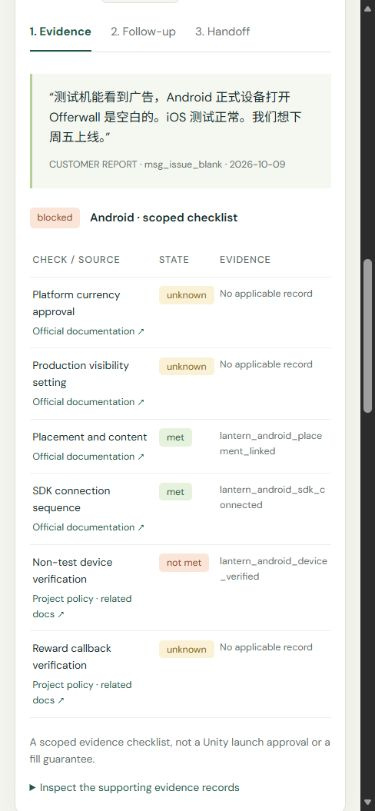
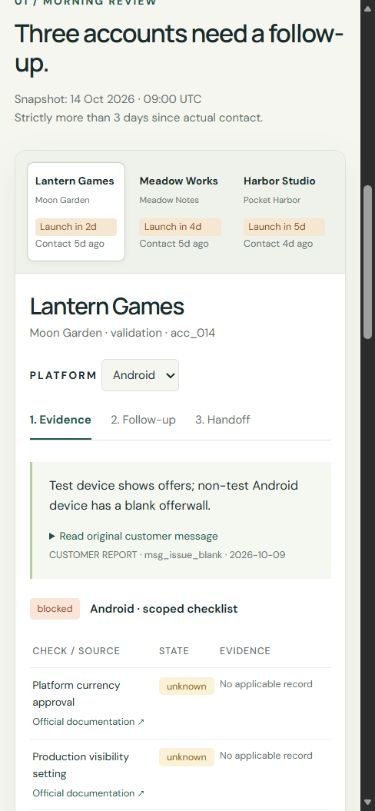
Polish the English case presentation and record verification
Align synthetic evidence with handoff fields, refresh browser screenshots, add verification notes and version static assets.

Changed region(s): [[0.0293, 0.0, 0.9093, 0.9864], [0.968, 0.4007, 0.9973, 0.524], [0.968, 0.2158, 0.9973, 0.3391]]

diff --git a/demo/data.js b/demo/data.js
@@ -241,7 +241,7 @@ window.CSM_DATA = {
               "id": "msg_issue_blank",
               "at": "2026-10-09T09:00:00Z",
               "kind": "customer_report",
-              "text": "测试机能看到广告，Android 正式设备打开 Offerwall 是空白的。iOS 测试正常。我们想下周五上线。"
+              "text": "我们在新加坡测试：测试机能看到广告，Android 正式设备打开奖励页面的 Offerwall 是空白的。iOS 测试正常。我们想下周五上线。"
             }
           ],
           "synthetic": true,
@@ -602,7 +602,7 @@ window.CSM_DATA = {
               "region": "Singapore",
               "reproduction_steps": "Open the reward screen on a non-test Android device."
             },
-            "customer_report": "测试机能看到广告，Android 正式设备打开 Offerwall 是空白的。iOS 测试正常。我们想下周五上线。",
+            "customer_report": "我们在新加坡测试：测试机能看到广告，Android 正式设备打开奖励页面的 Offerwall 是空白的。iOS 测试正常。我们想下周五上线。",
             "evidence_ids": [
               "msg_issue_blank"
             ],
@@ -1041,7 +1041,7 @@ window.CSM_DATA = {
               "id": "msg_issue_callback",
               "at": "2026-10-10T09:00:00Z",
               "kind": "customer_report",
-              "text": "Our self-managed reward endpoint returns HTTP 405. The reward has not reached the test user."
+              "text": "Our self-managed reward endpoint returns HTTP 405. The reward has not reached the test user. Test region: Japan. SDK: synthetic-version-1. Observed between 08:30 and 09:00 UTC on 2026-10-10."
             }
           ],
           "synthetic": true,
@@ -1228,7 +1228,7 @@ window.CSM_DATA = {
               "sdk_version": "synthetic-version-1",
               "region": "Japan"
             },
-            "customer_report": "Our self-managed reward endpoint returns HTTP 405. The reward has not reached the test user.",
+            "customer_report": "Our self-managed reward endpoint returns HTTP 405. The reward has not reached the test user. Test region: Japan. SDK: synthetic-version-1. Observed between 08:30 and 09:00 UTC on 2026-10-10.",
             "evidence_ids": [
               "msg_issue_callback"
             ],

diff --git a/demo/index.html b/demo/index.html
@@ -8,9 +8,9 @@
       content="Explore an evidence-grounded customer onboarding workflow by Yuchi Wang. Synthetic cases, traceable decisions, honest evaluations."
     />
     <title>CSM Copilot · Evidence before confidence</title>
-    <link rel="stylesheet" href="style.css" />
-    <script defer src="data.js"></script>
-    <script defer src="app.js"></script>
+    <link rel="stylesheet" href="style.css?v=0.1.1" />
+    <script defer src="data.js?v=0.1.1"></script>
+    <script defer src="app.js?v=0.1.1"></script>
   </head>
   <body>
     <a class="skip" href="#workspace">Skip to case explorer</a>

diff --git a/docs/VERIFICATION.md b/docs/VERIFICATION.md
@@ -1,0 +1,41 @@
+# Verification record
+
+Verified during the initial build on 2026-10-14. For the latest commit, use the live [CI results](https://github.com/Yuchi-Wang02/csm-copilot/actions/workflows/ci.yml) and [Pages deployment](https://github.com/Yuchi-Wang02/csm-copilot/actions/workflows/pages.yml).
+
+| Check | Observed result | Scope |
+|---|---|---|
+| Python behavior tests | 26 passed locally | Deterministic workflow and input boundaries |
+| Ruff lint and format | Passed | Python source checks |
+| Package build | Source distribution and wheel built | Includes packaged JSON fixtures |
+| Real MCP stdio client | Seven tools, prompt retrieval and invalid-ID error passed | Scripted client, no model inference |
+| Synthetic diagnostics | 12/12 dev; 14/18 family-separated cases | Same-session authored, not independently validated |
+| Initial GitHub Actions verification | Windows / Python 3.13 and Ubuntu / Python 3.11 passed | Clean runner installation and regenerated-artifact consistency |
+| GitHub Pages deployment | Published successfully | Public static replay |
+
+## Browser interactions inspected
+
+- Android evidence remains blocked; switching to iOS displays its own complete scoped checklist.
+- English and Chinese follow-ups render from the generated engine outputs.
+- Harbor's handoff retains HTTP 405 as a hypothesis and exposes missing reproduction steps and logs.
+- The customer-update toggle confirms two settings while retaining the failed device check.
+- Arrow-key navigation moves between review tabs.
+- The copy button reports completion; operating-system clipboard contents were not independently validated.
+- At a mobile viewport, document width and scroll width both measured 375 CSS pixels: no horizontal page overflow.
+- Browser error logs were empty in the inspected local session.
+
+Screenshots: [desktop introduction](assets/demo-desktop.png), [case review](assets/demo-case.png), [Chinese follow-up](assets/demo-followup.png), [mobile evidence view](assets/demo-mobile.png).
+
+## Reproduction
+
+```sh
+python -m pip install -e ".[dev]"
+python -m pytest -q
+python -m ruff check .
+python -m ruff format --check .
+python scripts/mcp_smoke.py --output evidence/mcp-transcript.json
+python scripts/build_demo.py
+git diff --exit-code -- demo/data.js evidence
+python -m build
+```
+
+Generated outputs are deterministic. The diagnostic case hash uses UTF-8 text with normalized line endings, so Windows and Linux yield the same identifier. Browser screenshots are observational artifacts and are not regenerated by CI.

diff --git a/README.md b/README.md
@@ -8,7 +8,10 @@ A working MCP server and interactive case explorer for a customer-success mornin
 
 **[Explore the interactive demo](https://yuchi-wang02.github.io/csm-copilot/)** · **[Three-minute interview walkthrough](docs/INTERVIEW.md)** · **[Evaluation results](evidence/EVALUATION.md)** · **[Learning path](docs/LEARNING.md)**
 
-![CSM Copilot case explorer](docs/assets/demo-desktop.png)
+![CSM Copilot case explorer](docs/assets/demo-case.png)
+
+[![Verify workflow](https://github.com/Yuchi-Wang02/csm-copilot/actions/workflows/ci.yml/badge.svg)](https://github.com/Yuchi-Wang02/csm-copilot/actions/workflows/ci.yml)
+[![Publish case explorer](https://github.com/Yuchi-Wang02/csm-copilot/actions/workflows/pages.yml/badge.svg)](https://github.com/Yuchi-Wang02/csm-copilot/actions/workflows/pages.yml)
 
 ## The business problem
 
@@ -131,7 +134,7 @@ Try: **“At the bundled snapshot, review accounts more than three days past the
 
 **The failures stay in the report.** Indirect wording and negation expose the lexical baseline's limits. English/Chinese paraphrases remain in the same split. There are no claims of measured time savings, business impact, production readiness, or independent human validation.
 
-See [per-case results](evidence/evaluation.json), [methodology](evidence/EVALUATION.md), and the [real MCP transcript](evidence/mcp-transcript.json). Unit tests separately cover time boundaries, platform isolation, unknown states, missing provenance, draft side effects, invalid inputs and partial-confirmation retesting.
+See [per-case results](evidence/evaluation.json), [methodology](evidence/EVALUATION.md), the [verification record](docs/VERIFICATION.md), and the [real MCP transcript](evidence/mcp-transcript.json). Unit tests separately cover time boundaries, platform isolation, unknown states, missing provenance, draft side effects, invalid inputs and partial-confirmation retesting.
 
 ## Portfolio rationale
 
